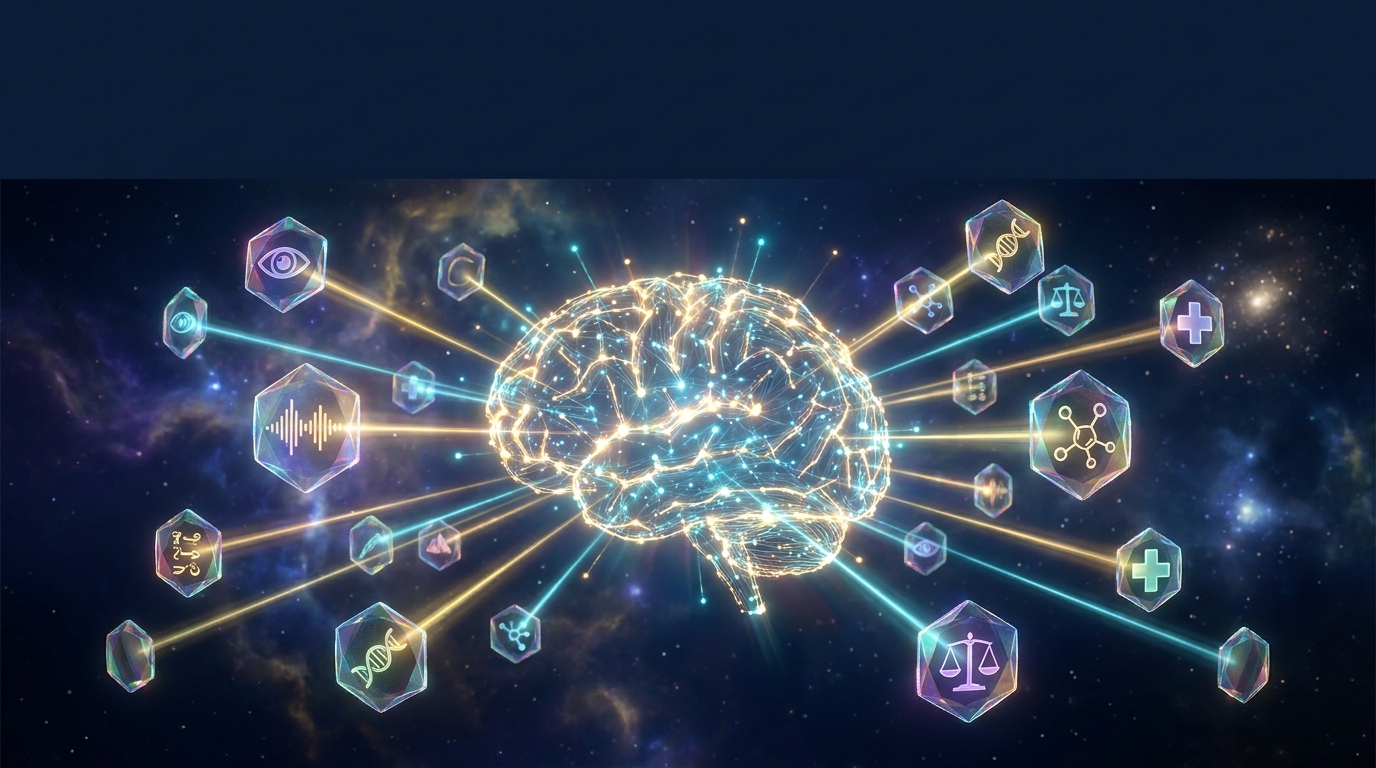
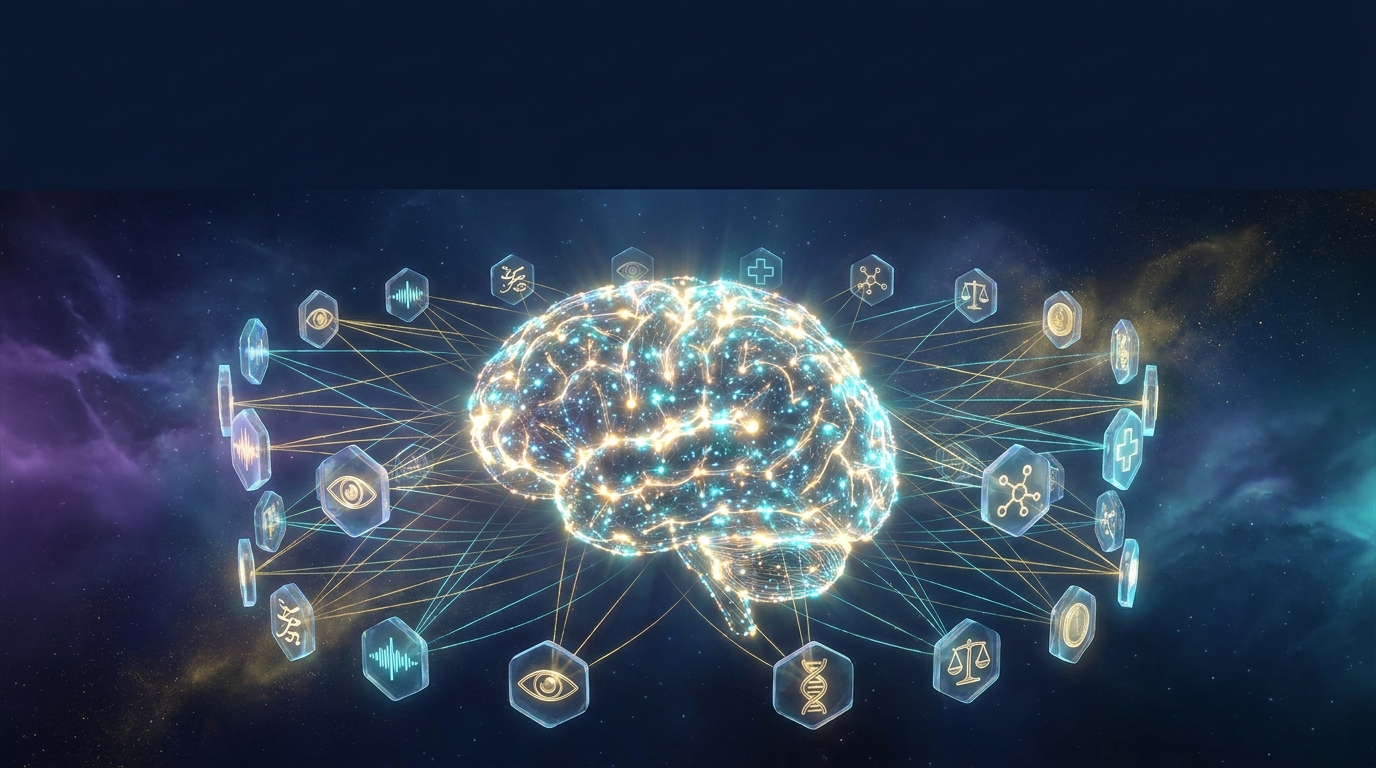
docs: add README and more section images
Add README.md plus asset-pipeline, gameplay, vfx, architecture, and
future section images; update calyx-lenses image.

diff --git a/README.md b/README.md
@@ -1,0 +1,199 @@
+<div align="center">
+
+![Light in the Dark](docs/readme/01-hero.png)
+
+# Light in the Dark
+
+### The ultimate **RPG creation engine** — where you build living worlds by telling visual stories, and every character is alive.
+
+*Single-player, local-first, AI-native. A no-code Warcraft III World Editor for the age of grounded AI — powered by [Calyx](#-calyx--the-living-world-brain) and rendered by [g3n](#-what-your-games-look-like).*
+
+</div>
+
+---
+
+> **Status:** Active development. This README tells the story of **what is coming** — the vision we are building toward, captured as a living backlog of atomic tasks. **State lives in [GitHub Issues](../../issues)** (start at the pinned **START HERE** issue). Nothing here is marketing fluff; every capability below is an open, tracked issue.
+
+---
+
+## ✨ What is this?
+
+**Light in the Dark** turns a deterministic Go game engine into a **WC3-World-Editor-class, no-code creation platform** for building deep, beautiful **RPGs** — the kind of worlds that birthed DotA, Tower Defense, and thousands of legendary custom games, reborn for the age of AI.
+
+Three things make it different:
+
+1. **🥇 Visual storytelling is the heart of it.** You don't write code — you *direct scenes*. Stage characters, set mood and lighting, frame the camera, branch the dialogue, and let the world tell an unforgettable story.
+2. **🧠 Every NPC, creature, and object is a living AI agent.** Not scripted behavior trees — actual AI, orchestrated by **Calyx**, a grounded-association intelligence that watches everything happening and decides when to bring the world to life.
+3. **🛠️ An AI can build the entire game for you.** The whole engine is an **MCP server** — every capability is a tool an AI agent can call. Describe what you want; watch it get built.
+
+Our **north-star end goal**: faithfully recreate the systemic depth of **[Carrion Fields](https://carrionfields.net)** — a 30-year-old MUD that is the benchmark for RPG depth — *visually*, with AI running every Immortal, cabal, and NPC. **If the engine can build Carrion Fields, it can build any RPG you can imagine.**
+
+---
+
+## 🥇 Visual storytelling, first
+
+![Visual storytelling](docs/readme/02-storytelling.png)
+
+Players don't stay for stats — they stay for **emotion, character, and meaningful choices.** So the entire engine is optimized for telling stories *visually and textually*, every way a story can be told:
+
+- **Branching dialogue** editor (Ink/Yarn-class) — write a screenplay, get a living conversation.
+- A **directorial layer**: scene staging, **mood & atmosphere** (pick a *feeling* — dread, warmth, awe — not a shader), **camera as director**, character **expression & emotion**, and **adaptive emotional scoring**.
+- **Environmental storytelling**, **cinematics/cutscenes**, **quests & epic questlines**, a **Calyx-grounded lore bible** that keeps your world consistent, and an **AI co-writer** that drafts scenes you edit.
+- A **visual-novel mode** for image-and-text stories with zero 3D work.
+
+> *Show, don't tell.* Text is first-class — but the engine leads with the image.
+
+---
+
+## 🧠 An AI builds your game — the engine *is* an MCP server
+
+![AI builds your game](docs/readme/03-mcp-agent.png)
+
+This is the core architectural bet: **every single capability of the editor is an agent-controllable MCP tool.** The GUI and the MCP server are two faces of one capability layer — if a human can do it, an AI agent can do it, and vice versa.
+
+Tell an agent *"build a 4-player dungeon crawl with an emotional intro cutscene and a boss that taunts the party"* — and it authors the terrain, units, abilities, triggers, dialogue, VFX, and agents end-to-end, then plays it back to verify its own work. No clicking required.
+
+---
+
+## 🛠️ The no-code editor — Warcraft III's World Editor, reborn
+
+![The editor](docs/readme/04-editor.png)
+
+The WC3 World Editor was legendary because it was **opinionated and effortless** — copy a unit, tweak its stats, and you had a new character; snap together Event → Condition → Action blocks, and you had a game. We're rebuilding that magic with modern tech and AI underneath:
+
+- **Object Editor** — copy-paste-customize units, heroes, abilities, items, buffs, upgrades, tech trees.
+- **Trigger Editor** — visual Event/Condition/Action logic, no code (Lua escape hatch when you want it).
+- **Terrain Editor** — paint tiles, cliffs, water, doodads, regions, cameras, weather.
+- **Asset & Object managers**, live in-editor playtest, undo/redo, autosave.
+
+The whole surface stays **WC3-simple** even as the power underneath grows — because *the magic is the simplicity of piecing together an entire game.*
+
+---
+
+## 🧠 Calyx — the living-world brain
+
+![Calyx and its lenses](docs/readme/05-calyx-lenses.png)
+
+**Calyx** is a Rust grounded-association semantic engine — an *intelligent database* that ingests everything (logs, bits, game-state signals), finds associations with grounded intelligence, and **decides when to activate and prompt AI agents** to make the world feel alive.
+
+It runs locally on the RTX 5090 with a curated roster of **50 diverse embedder "lenses"** — image, audio, text, semantic, medical, legal, finance, code, DNA, molecule, protein — so it understands content across every modality. Calyx grounds the AI: agents can only do what's *in distribution*. Out-of-distribution answers, physics, or behavior **fail closed** — never hallucinated.
+
+> Calyx never touches the deterministic game loop. Its intelligence is **"lowered"** — one-way — into frozen, fingerprinted game data. The game stays bit-exact and replayable; the AI stays out of the frame.
+
+---
+
+## 👹 Every NPC is alive
+
+![Living-world AI agents](docs/readme/06-living-agents.png)
+
+Every creature you fight, every NPC you talk to, every object in the world can be a **Calyx-driven AI agent** — right-sized to its role:
+
+- **Object/visual micro-agents** (~5–20 MB tiny models) bring props and particles to life.
+- **Conversational NPCs** run small local LLMs (Gemma-class 2–4B) for in-character dialogue, grounded by Calyx.
+- **AI agents run the world's factions** — they play the Immortals, lead the cabals and religions, and even occupy player-character slots, fighting and roleplaying alongside humans.
+
+A guardian envelope (**Ward**) bounds what agents can do — creative *inside* the envelope, impossible physics *refused* at the edge. Bind a prompt, pick a model, attach it to an object. Set them loose.
+
+---
+
+## 🎮 What your games look like
+
+![Gameplay](docs/readme/08-gameplay.png)
+
+Everything is rendered by **g3n** — and **g3n generates everything**: every object, model, material, and particle is g3n-native, pushed to its high-tech ceiling on the RTX 5090. PBR materials, dynamic shadows, custom GLSL shaders, dense GPU particle VFX, bloom and color grading.
+
+> **Honest visual target:** best-in-class **stylized real-time PBR** — the look of *Sunderfolk*, *Warcraft III Reforged*, or *League of Legends*, running smoothly at high framerate. Beautiful and achievable, not pre-rendered film CGI.
+
+### 🔥 Particles & VFX — just describe it
+
+![VFX editor](docs/readme/09-vfx.png)
+
+Fireballs, explosions, lightning strikes, magic vortexes — author them visually with emitters and curves, or **describe them in words** and let Calyx generate the effect. All g3n-native, all real-time.
+
+### 🎨 AI asset pipeline — text → playable creature
+
+![AI asset pipeline](docs/readme/07-asset-pipeline.png)
+
+Describe a creature and watch it become real: **prompt → 2D concept → 3D mesh → auto-rig → animated, game-ready model**, conformed to the render budget and ingested into Calyx for semantic search and dedup.
+
+---
+
+## ⚔️ The ultimate RPG creator
+
+RPG is the **flagship** — because RPGs are *stories*, and stories are what we're built for. Everything the great MUDs and ORPGs had, made buildable with no code:
+
+| System | What you get |
+|---|---|
+| **Characters** | Races (traits, resistances, restrictions), classes & multi-class, alignment × ethos, character creation |
+| **Growth** | Skill/talent trees, leveling, attributes & derived stats, ability framework (skills/spells/songs/powers), specializations & legacies |
+| **Loot & gear** | Equipment slots, set bonuses, **scarcity-tiered itemization** (see below), ARPG affixes |
+| **Factions** | Cabals/guilds/religions with deities, **AI-led ranks**, item-of-power warfare/raiding |
+| **World** | Zones with resets/repop, navigation, quests & epic questlines, interactables, bestiary |
+| **Risk** | Permadeath, aging, survival needs, **full-loot PvP**, configurable PK rules |
+| **Roleplay** | Character roles, **Calyx-measured RP quality** that advances your rank and unlocks powers |
+
+### 💎 A scarcity economy with real stakes
+
+The most powerful items are **finite in the entire world** — maybe one or two legendaries exist, ever. While you hold one, the monster that drops it *can't respawn with it*. Want it? **Kill the holder and loot everything.** Common gear is unlimited so you can always re-equip and get back in the fight. And if you hoard rare items and stop logging in for a week, they **decay back into the world** — power must be *used*, not locked away.
+
+### 🎭 Roleplay *is* progression
+
+AI cabal and religion leaders **watch how you play** and measure — with Calyx's grounded intelligence — how well you embody your faction's theme. Roleplay well, and they promote you, interact with you, and unlock new powers. This is a primary way you *grow*.
+
+---
+
+## 🏛️ Architecture — three tiers, strictly separated
+
+![Three-tier architecture](docs/readme/10-architecture.png)
+
+```
+🧠 KNOWLEDGE / AI TIER  — Calyx (Rust, GPU) + the 50-lens brain + AI agents
+        │  one-way "lowering valve"  (offline, fingerprinted)
+⚙️ DETERMINISTIC SIM    — fixed-point, zero-alloc Go core   ← AI never runs here
+🎨 PRESENTATION         — g3n render + audio (GPU per-frame) ← AI never in the frame
+```
+
+The AI tier is brilliant but non-deterministic; the sim core is bit-exact and replayable. The **lowering valve** is the only bridge — learned intelligence becomes frozen game data, one way. This is what lets the world be *alive* and *deterministic* at the same time.
+
+---
+
+## 💻 Built for your machine — maxed out
+
+No compromises, no min-spec. The engine targets one high-end workstation and uses every watt of it:
+
+| | |
+|---|---|
+| **CPU** | AMD Ryzen 9 9950X3D — 16C/32T, 128 MB 3D V-Cache, AVX-512 |
+| **GPU** | NVIDIA RTX 5090 — 32 GB GDDR7, Blackwell (sm_120), CUDA 13.3 |
+| **RAM** | 128 GB DDR5 |
+| **Everything local** | Calyx + 50 embedders + AI agents + g3n, all on one box. No cloud. |
+
+---
+
+## 🗺️ Roadmap
+
+- **Phase 1 — Single-player, local-only, fully agent-driven.** Every NPC, creature, and object is a Calyx agent. Build toward recreating Carrion Fields, solo and local.
+- **Phase 2 — Multiplayer & persistent world.** Full-loot PvP, anti-hoard item decay, AI agents as player characters, persistent ORPG characters.
+- **Future expansion** *(deferred)* — cloud hosting and a creator marketplace, once the local engine is complete.
+
+---
+
+## 🎯 The end goal
+
+![What will you build](docs/readme/11-future.png)
+
+> **Recreate Carrion Fields** — every system, rendered visually, with AI running every Immortal, cabal, and NPC. When we can do that, we can build *anything* — and every other kind of game becomes a small feature add-on.
+
+This is the most ambitious no-code game creator ever attempted: **the depth of a 30-year MUD, the accessibility of the Warcraft III editor, the beauty of a modern real-time engine, and the soul of an AI that brings every world to life.**
+
+**What will you build?**
+
+---
+
+<div align="center">
+
+*Light in the Dark — by what name do you wish to be remembered?*
+
+**[📋 Browse the backlog →](../../issues)** · Built with Calyx + g3n · Windows + RTX 5090
+
+</div>